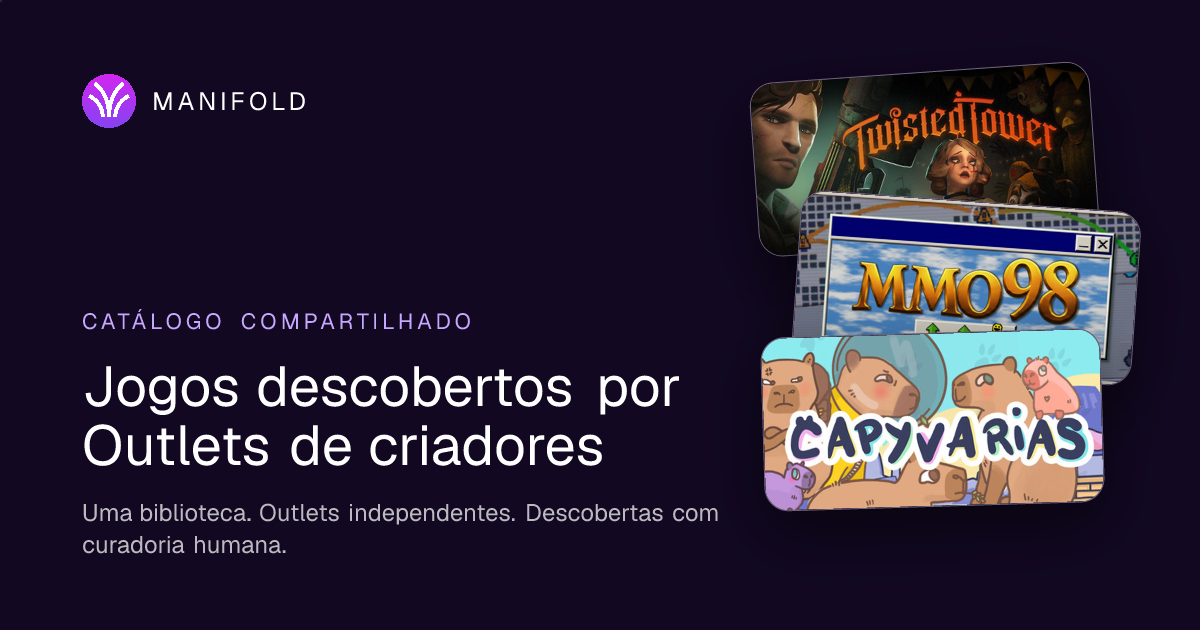
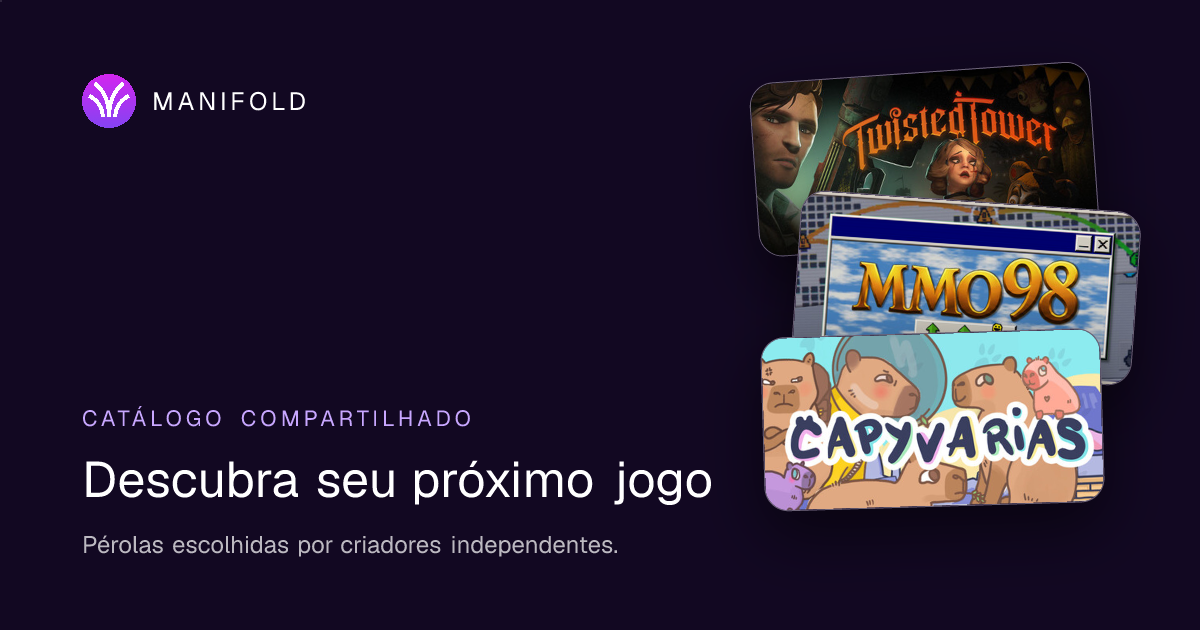
fix(seo): refine portuguese home preview copy

Changed region(s): [[0.0617, 0.573, 0.6167, 0.8746], [0.2158, 0.4825, 0.4008, 0.5429], [0.0617, 0.4825, 0.185, 0.5429]]

diff --git a/pages/api/og/[...segments].tsx b/pages/api/og/[...segments].tsx
@@ -260,7 +260,7 @@ function HomeCard({
         }}
       >
         <BrandLockup logo={logo} />
-        <div style={{ display: "flex", flexDirection: "column", width: 760 }}>
+        <div style={{ display: "flex", flexDirection: "column", width: 650 }}>
           <div
             style={{
               display: "flex",
@@ -278,12 +278,14 @@ function HomeCard({
           <div
             style={{
               display: "flex",
-              fontSize: 56,
+              fontSize: locale === "pt-BR" ? 50 : 56,
               lineHeight: 1.06,
               fontWeight: 900,
             }}
           >
-            {metadata.title.replace(/^Manifold — /, "")}
+            {locale === "pt-BR"
+              ? "Descubra seu próximo jogo"
+              : metadata.title.replace(/^Manifold — /, "")}
           </div>
           <div
             style={{
@@ -296,7 +298,7 @@ function HomeCard({
             }}
           >
             {locale === "pt-BR"
-              ? "Uma biblioteca. Outlets independentes. Descobertas com curadoria humana."
+              ? "Pérolas escolhidas por criadores independentes."
               : "One library. Independent Outlets. Discovery shaped by people."}
           </div>
         </div>
